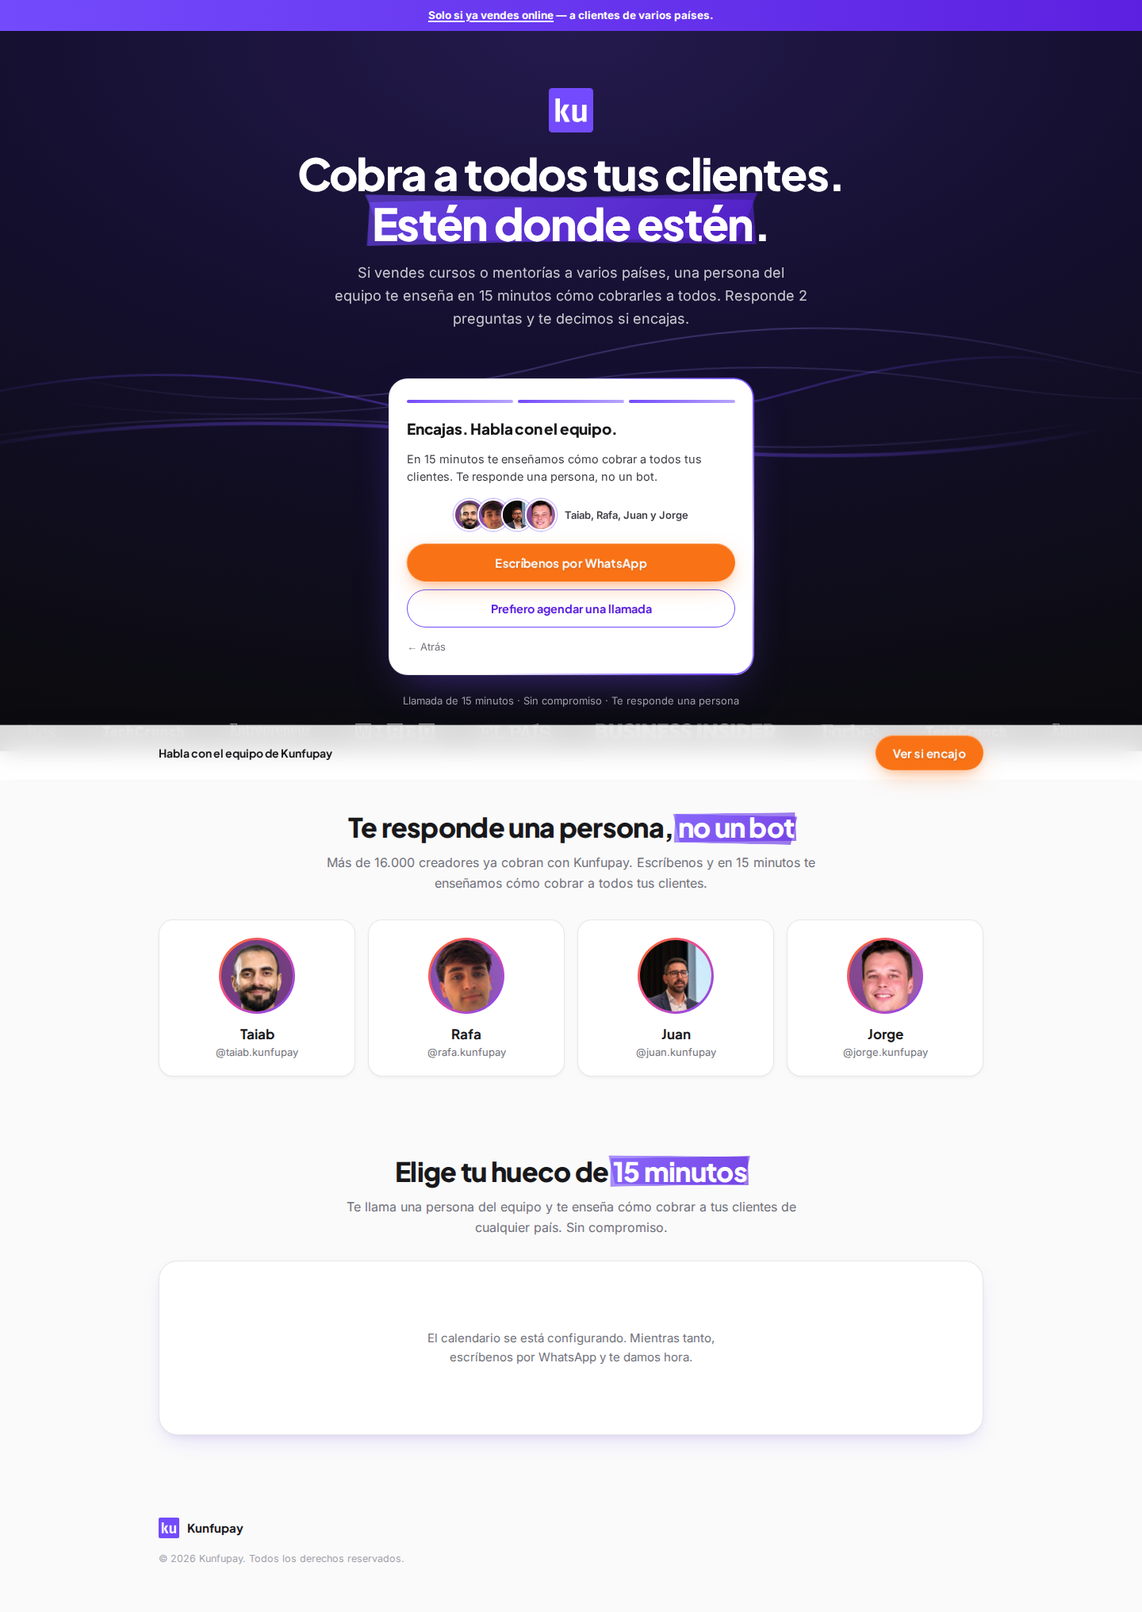
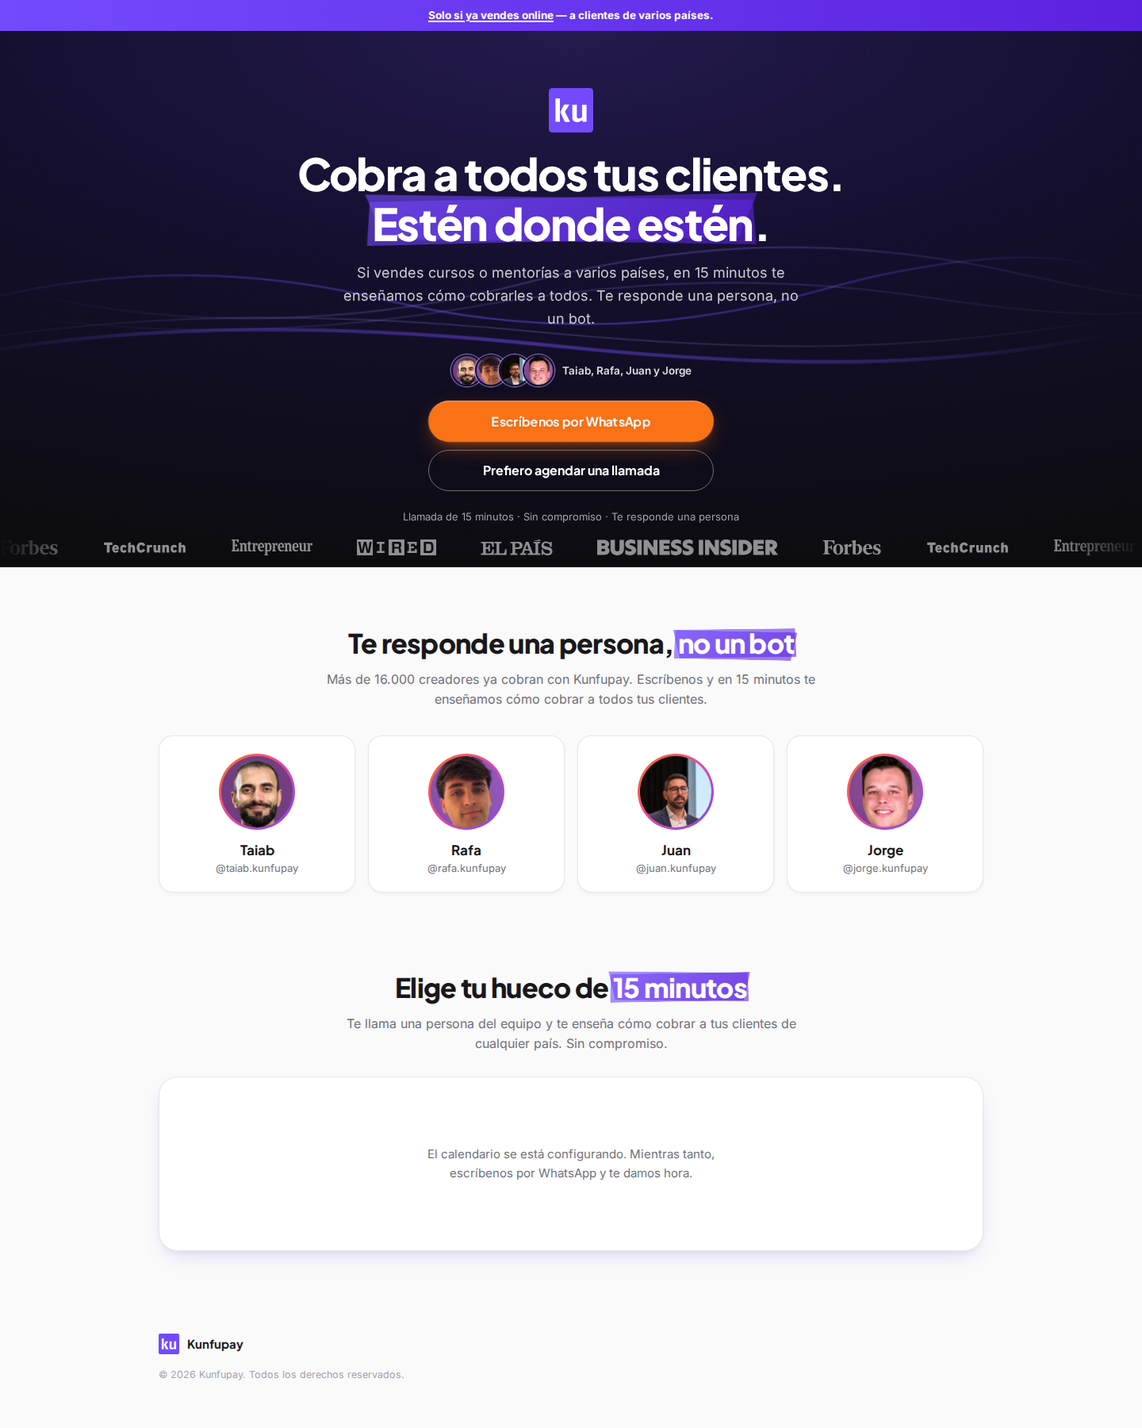
Landing vendedores: sin formulario, solo CTA a WhatsApp y agendar; sin barra fija
Claude-Session: https://claude.ai/code/session_01CrG1buW4YQaBwXCV6dNp28

diff --git a/landings/vendedores/v1/index.html b/landings/vendedores/v1/index.html
@@ -34,12 +34,13 @@
 <!-- ═══════════════════════════════════════════════════════════════════
      CAMPAÑA REMARKETING · VENDEDORES · v1
      ======================================
-     Derivada de /landings/fiscal/v1 (patrón quiz). Lo de arriba del pliegue
-     es IDÉNTICO al patrón: topbar, hero oscuro con ondas, logo, titular con
-     subrayado, subtítulo, quiz blanco de 3 pasos y prensa. Cambian solo:
-       · el copy (topbar, titular, subtítulo, microtrust, preguntas),
-       · el paso 3 del quiz: en vez de email + teléfono, el RESULTADO,
+     Derivada de /landings/fiscal/v1. Lo de arriba del pliegue es el mismo
+     del patrón: topbar, hero oscuro con ondas, logo, titular con subrayado,
+     subtítulo y prensa. Cambian:
+       · el copy (topbar, titular, subtítulo, microtrust),
+       · el quiz: SIN formulario, solo los dos CTA (variante (a) del patrón),
        · todo lo de debajo del hero: el equipo de ventas y el calendario.
+     Sin barra fija inferior.
 
      PARA QUIÉN. Anuncio «RMK 3 / AUDIENCIA VENDEDORES» de la campaña
      «🔴 REMARKETING / KUNFUPAY», que solo llega a
@@ -51,13 +52,13 @@
 
      CONVERSIÓN Y MEDICIÓN. 100 % web: el anuncio NO abre WhatsApp, abre esta
      página, y el píxel ve cada paso.
-       · CTA principal (súper-CTA naranja): «Escríbenos por WhatsApp», solo
-         para quien encaja. Dispara `fbq('track','Contact')` — es el evento
-         al que optimiza el conjunto.
+       · CTA principal (súper-CTA naranja): «Escríbenos por WhatsApp».
+         Dispara `fbq('track','Contact')` — es el evento al que optimiza el
+         conjunto.
        · CTA secundario: «Prefiero agendar una llamada» → baja al calendario.
          Reserva hecha en el calendario = `fbq('track','Schedule')`.
-       · Quien no encaja (físicos, no vende o factura ≤ 500 €) no ve el
-         WhatsApp: va a /lp/potencial, igual que en el patrón.
+       · El filtro lo hacen la topbar («Solo si ya vendes online») y el
+         subtítulo, no un formulario.
 
      PENDIENTE ANTES DE LANZAR: KF_WHATSAPP y KF_CALENDAR_URL (bloque de
      config del <head>). Con los dos vacíos la página funciona, pero el
@@ -1600,17 +1601,21 @@ section.trust { display: none; }
    Solo lo que el patrón no trae: el resultado del quiz con dos CTA, las
    caras del equipo y el calendario. Todo con los tokens de arriba. */
 
-/* Resultado del quiz (paso 3) */
-.kf-result__ctas { display: flex; flex-direction: column; gap: 10px; margin-top: 16px; }
-.kf-result__ctas .btn-secundario { height: 48px; }
-.kf-equipo-mini { display: flex; align-items: center; justify-content: center; margin-top: 4px; }
+/* CTA del hero: caras del equipo + WhatsApp (súper-CTA) + agendar */
+.kf-equipo-mini { display: flex; align-items: center; justify-content: center; }
 .kf-equipo-mini img {
   width: 40px; height: 40px; border-radius: 50%; object-fit: cover;
-  border: 2px solid var(--kf-surface); margin-left: -10px;
-  box-shadow: 0 0 0 1.5px rgba(115,75,252,.35);
+  border: 2px solid #140f2e; margin-left: -10px;
+  box-shadow: 0 0 0 1.5px rgba(185,166,255,.55);
 }
 .kf-equipo-mini img:first-child { margin-left: 0; }
-.kf-equipo-mini span { margin-left: 10px; font-size: 13px; font-weight: 600; color: var(--kf-text-secondary); text-align: left; }
+.kf-equipo-mini span { margin-left: 10px; font-size: 13.5px; font-weight: 600; color: rgba(255,255,255,.85); text-align: left; }
+.kf-hero-ctas { display: flex; flex-direction: column; gap: 10px; width: 100%; max-width: 360px; margin-top: 8px; }
+.kf-hero-ctas .btn { width: 100%; height: 52px; font-size: 16px; }
+/* El secundario del patrón está pensado para fondo claro: en el hero oscuro
+   pasa a blanco para que se lea. */
+.hero--dark .btn-secundario { color: #fff; border-color: rgba(255,255,255,.4); }
+.hero--dark .btn-secundario:hover { background: rgba(255,255,255,.08); }
 
 /* Equipo */
 .kf-equipo__grid {
@@ -1740,87 +1745,21 @@ height="0" width="0" style="display:none;visibility:hidden"></iframe></noscript>
   <div class="wrap">
     <img class="hero-logo" src="/landings-assets/logo.svg" alt="Kunfupay">
     <h1>Cobra a todos tus clientes. <span class="highlight" style="--tilt:-1.4deg">Estén donde estén</span>.</h1>
-    <p class="hero-subtitle">Si vendes cursos o mentorías a varios países, una persona del equipo te enseña en 15 minutos cómo cobrarles a todos. Responde 2 preguntas y te decimos si encajas.</p>
+    <p class="hero-subtitle">Si vendes cursos o mentorías a varios países, en 15 minutos te enseñamos cómo cobrarles a todos. Te responde una persona, no un bot.</p>
 
-    <!-- HERO VARIANTE (c) — QUIZ. 2 preguntas + captura de email en la 3ª
-         pantalla; cada pantalla se muestra/oculta con JS (final del body).
-         El mismo #hero-cta envuelve todo el bloque para que la barra fija
-         inferior y el scroll-reveal lo traten igual que a las otras 2
-         variantes (a/formulario en _template/mockup-formulario/). -->
+    <!-- HERO VARIANTE (a) — CTA DIRECTO, sin formulario. Súper-CTA naranja a
+         WhatsApp (la acción suprema de la pieza) y, debajo, el secundario que
+         baja al calendario. El filtro lo hacen la topbar y el subtítulo.
+         #hero-cta envuelve el bloque para la barra fija, igual que en el patrón.
+         (Este div se cierra después del microtrust.) -->
     <div class="hero-cta" id="hero-cta">
-      <div class="hero-quiz hero-quiz--light" id="hero-quiz">
-        <div class="hero-quiz__progress">
-          <span class="hero-quiz__step" data-step="1"></span>
-          <span class="hero-quiz__step" data-step="2"></span>
-          <span class="hero-quiz__step" data-step="3"></span>
-        </div>
-
-        <!-- ═══ LÓGICA DE CUALIFICACIÓN (la misma regla que el patrón) ═══
-             El quiz NUNCA se corta: el resultado se decide en el paso 3.
-
-               qué vende             facturación          resultado
-               ───────────────────── ──────────────────── ─────────────────────
-               físicos / no vende    cualquiera           registro (/lp/potencial)
-               online                0 ó 1–500 €          registro (/lp/potencial)
-               online                más de 500 €         WhatsApp + agendar
-
-             `utm_value` lleva el tope del rango elegido (0/500/2000/10000/30000/60000).
-             ══════════════════════════════════════════════════════════ -->
-        <div class="hero-quiz__screen" data-screen="1">
-          <h2 class="hero-quiz__question">¿Qué vendes?</h2>
-          <div class="hero-quiz__options">
-            <button class="hero-quiz__option" data-value="digitales" type="button"><span class="hero-quiz__radio"></span><span class="hero-quiz__option-label">Cursos, mentorías o servicios online</span></button>
-            <button class="hero-quiz__option" data-value="fisicos" type="button"><span class="hero-quiz__radio"></span><span class="hero-quiz__option-label">Productos físicos</span></button>
-            <button class="hero-quiz__option" data-value="nada" type="button"><span class="hero-quiz__radio"></span><span class="hero-quiz__option-label">Todavía no vendo</span></button>
-          </div>
-        </div>
-
-        <!-- El `data-value` ES la cifra que viaja como utm_value: se lee con
-             parseInt, así que debe ser un número (0, 5000, 10000, 20000). -->
-        <div class="hero-quiz__screen" data-screen="2" hidden>
-          <h2 class="hero-quiz__question">¿Cuánto facturas al mes?</h2>
-          <div class="hero-quiz__options">
-            <!-- El `data-value` ES la cifra que viaja como utm_value y acaba en
-                 "Facturación declarada" de Notion. Tramos más altos que el
-                 patrón: quien se plantea montar una LLC ya factura lo bastante
-                 para justificarla, así que 5.000/10.000/20.000 se quedaba corto
-                 y el dato dejaba de segmentar. La regla de cualificación no
-                 cambia: cualquier valor > 0 cualifica. -->
-            <button class="hero-quiz__option" data-value="0" type="button"><span class="hero-quiz__radio"></span><span class="hero-quiz__option-label">Aún no facturo</span></button>
-            <button class="hero-quiz__option" data-value="500" type="button"><span class="hero-quiz__radio"></span><span class="hero-quiz__option-label">De 1 a 500 €</span></button>
-            <button class="hero-quiz__option" data-value="2000" type="button"><span class="hero-quiz__radio"></span><span class="hero-quiz__option-label">De 500 a 2.000 €</span></button>
-            <button class="hero-quiz__option" data-value="10000" type="button"><span class="hero-quiz__radio"></span><span class="hero-quiz__option-label">De 2.000 a 10.000 €</span></button>
-            <button class="hero-quiz__option" data-value="30000" type="button"><span class="hero-quiz__radio"></span><span class="hero-quiz__option-label">De 10.000 a 30.000 €</span></button>
-            <button class="hero-quiz__option" data-value="60000" type="button"><span class="hero-quiz__radio"></span><span class="hero-quiz__option-label">Más de 30.000 €</span></button>
-          </div>
-        </div>
-
-        <!-- Paso 3 (último): RESULTADO. Sustituye al email + teléfono del patrón:
-             aquí la conversión es hablar con ventas, no registrarse. Dos
-             variantes; el script enseña UNA según la tabla de arriba. -->
-        <div class="hero-quiz__screen" data-screen="3" hidden>
-          <div class="kf-result" data-result="si">
-            <h2 class="hero-quiz__question">Encajas. Habla con el equipo.</h2>
-            <p class="hero-quiz__result-copy">En 15 minutos te enseñamos cómo cobrar a todos tus clientes. Te responde una persona, no un bot.</p>
-            <div class="kf-equipo-mini" aria-hidden="true">
-              <img src="equipo/taiab.jpg" alt=""><img src="equipo/rafa.jpg" alt=""><img src="equipo/juan.jpg" alt=""><img src="equipo/jorge.jpg" alt="">
-              <span>Taiab, Rafa, Juan y Jorge</span>
-            </div>
-            <div class="kf-result__ctas">
-              <a href="#agenda" class="btn btn-super-cta btn-full" id="kf-wa-btn" rel="noopener">Escríbenos por WhatsApp</a>
-              <a href="#agenda" class="btn btn-secundario btn-full" id="kf-agendar-btn">Prefiero agendar una llamada</a>
-            </div>
-          </div>
-          <div class="kf-result" data-result="no" hidden>
-            <h2 class="hero-quiz__question">Aún no es el momento de la llamada</h2>
-            <p class="hero-quiz__result-copy">La llamada es para quien ya vende online y factura más de 500 € al mes. Mientras tanto, crea tu cuenta gratis y empieza a cobrar.</p>
-            <div class="kf-result__ctas">
-              <a href="#" class="btn btn-super-cta btn-full" id="kf-registro-btn">Crear mi cuenta gratis</a>
-            </div>
-          </div>
-        </div>
-
-        <button type="button" class="hero-quiz__back" id="hero-quiz-back" hidden>← Atrás</button>
+      <div class="kf-equipo-mini" aria-hidden="true">
+        <img src="equipo/taiab.jpg" alt=""><img src="equipo/rafa.jpg" alt=""><img src="equipo/juan.jpg" alt=""><img src="equipo/jorge.jpg" alt="">
+        <span>Taiab, Rafa, Juan y Jorge</span>
+      </div>
+      <div class="kf-hero-ctas">
+        <a href="#agenda" class="btn btn-super-cta" id="kf-wa-btn" rel="noopener">Escríbenos por WhatsApp</a>
+        <a href="#agenda" class="btn btn-secundario" id="kf-agendar-btn">Prefiero agendar una llamada</a>
       </div>
 
       <p class="hero-microtrust">Llamada de 15 minutos · Sin compromiso · Te responde una persona</p>
@@ -1873,9 +1812,8 @@ height="0" width="0" style="display:none;visibility:hidden"></iframe></noscript>
 
 <!-- ============================================================
      3) AGENDA — propio de esta campaña
-     El calendario se carga desde KF_CALENDAR_URL (config del <head>). Hace de
-     id="cta-final-block" para la barra fija: mientras se ve el calendario,
-     la barra se esconde y no tapa los huecos.
+     El calendario se carga desde KF_CALENDAR_URL (config del <head>). Sin
+     barra fija inferior: la página es corta y los dos CTA ya están arriba.
      ============================================================ -->
 <section class="section kf-agenda" id="agenda">
   <div class="wrap section-head reveal">
@@ -1883,24 +1821,12 @@ height="0" width="0" style="display:none;visibility:hidden"></iframe></noscript>
     <h2 class="section-title">Elige tu hueco de <span class="highlight" style="--tilt:-1deg">15 minutos</span></h2>
     <p class="section-lead">Te llama una persona del equipo y te enseña cómo cobrar a tus clientes de cualquier país. Sin compromiso.</p>
   </div>
-  <div class="wrap" id="cta-final-block">
+  <div class="wrap">
     <div class="kf-cal reveal" id="kf-cal">
       <p class="kf-cal__vacio" id="kf-cal-vacio">El calendario se está configurando. Mientras tanto, escríbenos por WhatsApp y te damos hora.</p>
     </div>
   </div>
 </section>
-
-<!-- ============================================================
-     BARRA FIJA INFERIOR — bloque común
-     Igual que en el patrón: aparece cuando no se ve ni el quiz ni el
-     calendario, y al pulsar vuelve al quiz.
-     ============================================================ -->
-<div class="sticky-cta-bar" id="sticky-cta-bar">
-  <div class="wrap sticky-cta-bar__inner">
-    <p class="sticky-cta-bar__text">Habla con el equipo de Kunfupay</p>
-    <button type="button" class="btn btn-super-cta" id="sticky-cta-btn">Ver si encajo</button>
-  </div>
-</div>
 
 <footer class="site-footer">
   <div class="wrap">
@@ -1932,30 +1858,35 @@ height="0" width="0" style="display:none;visibility:hidden"></iframe></noscript>
   if (tb && window.ResizeObserver) new ResizeObserver(medir).observe(tb);
 })();
 
-// Barra fija inferior (igual que el patrón): visible solo cuando no se ve ni
-// el quiz ni el calendario. Al pulsar, vuelve al quiz.
+// ── CTA PRINCIPAL: WhatsApp ────────────────────────────────────────────
+// El enlace se escribe en el href (no con window.open): el navegador de
+// Instagram bloquea muchas ventanas abiertas por script. `Contact` es el
+// evento al que optimiza el conjunto del anuncio.
 (function () {
-  var bar = document.getElementById('sticky-cta-bar');
-  var heroCta = document.getElementById('hero-cta');
-  var stickyBtn = document.getElementById('sticky-cta-btn');
-  if (!bar || !heroCta || !stickyBtn || !('IntersectionObserver' in window)) return;
+  var waBtn = document.getElementById('kf-wa-btn');
+  if (!waBtn) return;
+  var numero = String(window.KF_WHATSAPP || '').replace(/\D/g, '');
+  if (numero) {
+    var texto = 'Hola, vengo de la web de Kunfupay. Vendo online a clientes de varios países y quiero ver cómo cobrarles a todos.';
+    waBtn.href = 'https://wa.me/' + numero + '?text=' + encodeURIComponent(texto);
+    waBtn.target = '_blank';
+  } else {
+    // Sin número configurado: se queda en el ancla #agenda (baja al calendario).
+    console.warn('[Kunfupay] KF_WHATSAPP sin configurar: el botón baja al calendario.');
+  }
+  waBtn.addEventListener('click', function () {
+    fbq('track', 'Contact');
+    gtag('event', 'contact_whatsapp', {});
+  });
+})();
 
-  var finalCtaBlock = document.getElementById('cta-final-block');
-  var targets = [heroCta].concat(finalCtaBlock ? [finalCtaBlock] : []);
-  var visible = new Set();
-
-  var io = new IntersectionObserver(function (entries) {
-    entries.forEach(function (entry) {
-      if (entry.isIntersecting) visible.add(entry.target);
-      else visible.delete(entry.target);
-    });
-    bar.classList.toggle('is-visible', visible.size === 0);
-  }, { threshold: 0.01 });
-  targets.forEach(function (t) { io.observe(t); });
-
-  stickyBtn.addEventListener('click', function () {
-    fbq('trackCustom', 'cta_click_sticky_bar');
-    heroCta.scrollIntoView({ behavior: 'smooth', block: 'center' });
+// ── CTA SECUNDARIO: agendar (baja a #agenda) ───────────────────────────
+(function () {
+  var btn = document.getElementById('kf-agendar-btn');
+  if (!btn) return;
+  btn.addEventListener('click', function () {
+    fbq('trackCustom', 'cta_agendar');
+    gtag('event', 'cta_agendar', {});
   });
 })();
 
@@ -1984,135 +1915,6 @@ height="0" width="0" style="display:none;visibility:hidden"></iframe></noscript>
       gtag('event', 'agenda_reservada', {});
     }
   });
-})();
-
-// Hero quiz: 2 preguntas de cualificación y, en el paso 3, el RESULTADO.
-// Quien encaja ve WhatsApp (súper-CTA) y agendar (secundario); quien no,
-// el registro gratuito por /lp/potencial, como en el patrón.
-(function () {
-  var root = document.getElementById('hero-quiz');
-  if (!root) return;
-  var screens = root.querySelectorAll('.hero-quiz__screen');
-  var steps = root.querySelectorAll('.hero-quiz__step');
-  var backBtn = document.getElementById('hero-quiz-back');
-  var answers = {};
-  var current = 1;
-
-  var ETIQUETAS_Q1 = { digitales: 'cursos, mentorías o servicios online', fisicos: 'productos físicos', nada: 'todavía nada' };
-
-  // Igual que el patrón: ?paso=N en la URL sin recargar + page_view virtual.
-  function trackQuizStep(n) {
-    var u = new URL(location.href);
-    u.searchParams.set('paso', n);
-    var path = u.pathname + u.search;
-    if (history.replaceState) history.replaceState({ quizPaso: n }, '', path);
-    gtag('event', 'page_view', { page_path: path, page_title: document.title + ' — paso ' + n });
-    gtag('event', 'quiz_paso', { paso: n });
-  }
-
-  function showScreen(n) {
-    screens.forEach(function (s) { s.hidden = (parseInt(s.dataset.screen, 10) !== n); });
-    steps.forEach(function (s, i) {
-      var stepNum = i + 1;
-      s.classList.toggle('is-active', stepNum === n);
-      s.classList.toggle('is-done', stepNum < n);
-    });
-    backBtn.hidden = (n === 1);
-    current = n;
-    if (n === 3) mostrarResultado();
-    trackQuizStep(n);
-  }
-
-  function facturacion() { return parseInt(answers.q2, 10) || 0; }
-  function cualifica() { return answers.q1 === 'digitales' && facturacion() > 500; }
-
-  function mostrarResultado() {
-    var si = cualifica();
-    root.querySelector('.kf-result[data-result="si"]').hidden = !si;
-    root.querySelector('.kf-result[data-result="no"]').hidden = si;
-    if (si) prepararWhatsApp();
-    var datos = { modelo: answers.q1, facturacion: facturacion(), origen: si ? 'cualificado' : 'no_cualificado' };
-    fbq('trackCustom', 'quiz_resultado', datos);
-    gtag('event', 'quiz_resultado', datos);
-  }
-
-  root.querySelectorAll('.hero-quiz__option').forEach(function (btn) {
-    btn.addEventListener('click', function () {
-      var screen = btn.closest('.hero-quiz__screen');
-      var screenNum = parseInt(screen.dataset.screen, 10);
-      var options = screen.querySelectorAll('.hero-quiz__option');
-      options.forEach(function (o) { o.classList.remove('is-selected'); o.disabled = true; });
-      btn.classList.add('is-selected');
-      answers['q' + screenNum] = btn.dataset.value;
-      if (screenNum === 1) fbq('trackCustom', 'start_quiz');
-      fbq(
-        'trackCustom',
-        'quiz_step_' + screenNum,
-        screenNum === 2 ? kfImporte(btn.dataset.value) : { tipo_negocio: btn.dataset.value }
-      );
-      setTimeout(function () {
-        options.forEach(function (o) { o.disabled = false; });
-        showScreen(screenNum + 1);
-      }, 380);
-    });
-  });
-
-  backBtn.addEventListener('click', function () {
-    if (current > 1) showScreen(current - 1);
-  });
-
-  function rangoTexto() {
-    var b = root.querySelector('.hero-quiz__screen[data-screen="2"] .hero-quiz__option.is-selected .hero-quiz__option-label');
-    return b ? b.textContent.trim() : '';
-  }
-
-  // ── CTA PRINCIPAL: WhatsApp ──────────────────────────────────────────
-  // El mensaje sale ya escrito con las respuestas del quiz, para que ventas
-  // sepa con quién habla antes de contestar. `Contact` es el evento al que
-  // optimiza el conjunto del anuncio.
-  // El enlace se escribe en el href (no con window.open): el navegador de
-  // Instagram bloquea muchas ventanas abiertas por script.
-  var waBtn = document.getElementById('kf-wa-btn');
-  function prepararWhatsApp() {
-    var numero = String(window.KF_WHATSAPP || '').replace(/\D/g, '');
-    if (!numero) {
-      // Sin número configurado: se queda en el ancla #agenda (baja al calendario).
-      console.warn('[Kunfupay] KF_WHATSAPP sin configurar: el botón baja al calendario.');
-      return;
-    }
-    var texto = 'Hola, vengo de la web de Kunfupay. Vendo ' + (ETIQUETAS_Q1[answers.q1] || '') +
-      ' y facturo ' + rangoTexto().toLowerCase() + ' al mes. Quiero ver cómo cobrar a mis clientes de varios países.';
-    waBtn.href = 'https://wa.me/' + numero + '?text=' + encodeURIComponent(texto);
-    waBtn.target = '_blank';
-  }
-  waBtn.addEventListener('click', function () {
-    fbq('track', 'Contact', kfImporte(facturacion()));
-    gtag('event', 'contact_whatsapp', { modelo: answers.q1, facturacion: facturacion() });
-  });
-
-  // ── CTA SECUNDARIO: agendar ──────────────────────────────────────────
-  document.getElementById('kf-agendar-btn').addEventListener('click', function () {
-    fbq('trackCustom', 'cta_agendar');
-    gtag('event', 'cta_agendar', {});
-  });
-
-  // ── NO ENCAJA: registro por /lp/potencial (mismo destino que el patrón) ──
-  document.getElementById('kf-registro-btn').addEventListener('click', function (e) {
-    e.preventDefault();
-    fbq('trackCustom', 'cta_registro_no_cualificado');
-    var base = window.KF_DESTINOS_BASE || '';
-    var ruta = base ? base.replace(/\/$/, '') + '/potencial' : 'potencial/index.html';
-    var url = new URL(ruta, location.href);
-    url.searchParams.set('utm_origen', 'no_cualificado');
-    url.searchParams.set('utm_value', String(facturacion()));
-    try {
-      sessionStorage.setItem('kf_utm_origen', 'no_cualificado');
-      sessionStorage.setItem('kf_utm_value', String(facturacion()));
-    } catch (err) {}
-    location.href = forwardTrackingParams(url.toString());
-  });
-
-  showScreen(1);
 })();
 
 // Reveal al hacer scroll (igual que el patrón).
